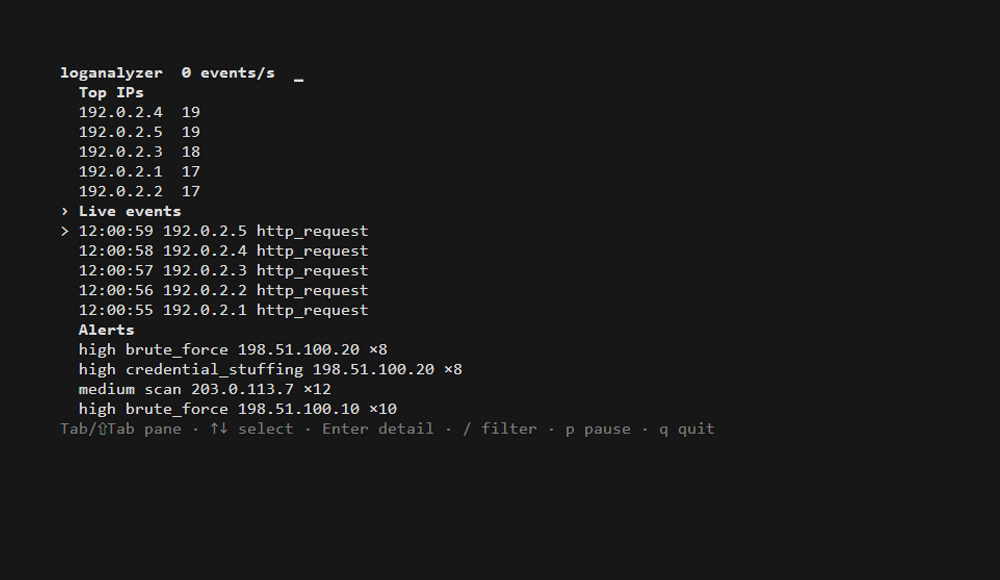
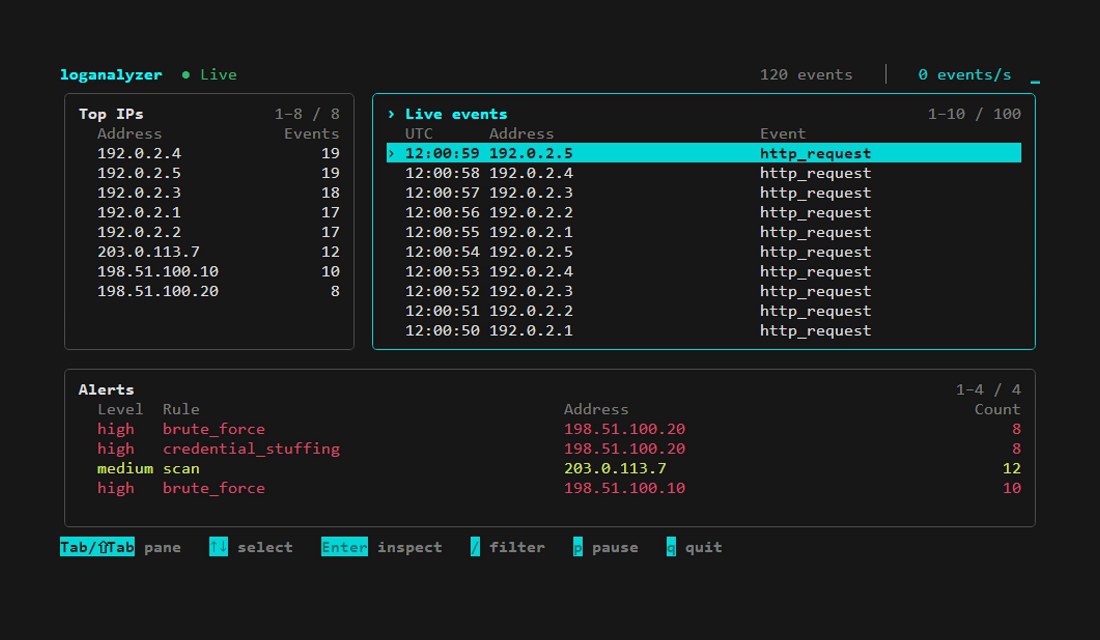
docs: embed the new dashboard demo and simplify both guides

diff --git a/docs/PYTHON_WALKTHROUGH.md b/docs/PYTHON_WALKTHROUGH.md
@@ -1,107 +1,95 @@
 # Python core walkthrough
 
-## From SSH message to database row
+Start with one failed SSH login. The parser reads the time, IP and username. The detector checks how many recent failures came from that IP. If this failure reaches the limit, SQLite saves the event and its alert together. The dashboard sees both on its next read.
 
-The three input commands call `ingest.parse_record` to decode bytes and choose the source parser. Valid events flow into `storage.write_batch`, where the detector compares the incoming observations with recent history. A threshold crossing adds an alert in the same transaction as its triggering event. Once the commit succeeds the dashboard can read both rows.
+## From a file to an event
 
-In `parsers/auth.py`, `parse_auth` splits the syslog header from the message. It recognizes three SSH messages. A failed password for an invalid user still counts as a failed password. A separate “Invalid user” message gets its own event type. Unrelated messages with a valid header return `None`. A broken header, impossible date, incomplete login message or invalid address raises `ValueError`.
+| Module | Job |
+| --- | --- |
+| `cli.py` | Handles `ingest`, `watch`, `replay` and `stats`. Picks the log format from the filename or `--format`. |
+| `ingest.py` | Reads bytes, decodes UTF-8 and calls the parser. A full-file import saves a batch every 500 input lines and saves the last batch at the end. |
+| `parsers/auth.py` | Reads accepted passwords, failed passwords and “Invalid user” messages from SSH logs. |
+| `parsers/nginx.py` | Reads combined access logs. It keeps the HTTP status and strips the query string from the path, so two searches on the same page count as one path. |
+| `models.py` | Defines the shared event fields, checks IPv4 and IPv6 addresses, and keeps the original line for the detail view. |
 
-In `models.py`, the Pydantic event carries the timestamp, source, IP address, username, type and original text. Address validation handles IPv4 and IPv6. The parser removes the line ending and preserves the rest for inspection.
+The import report counts malformed and ignored lines separately. A broken timestamp is malformed. A valid SSH “Connection closed” message is ignored because it describes a different kind of event.
 
-In `ingest.py`, `parse_auth_batch` keeps separate counts for malformed and ignored lines. Its reference date advances after each accepted event. The caller can pass the returned reference to the next batch. Keeping this state outside the single-line parser makes a date inference easy to reproduce in a test.
+### Why December needs special handling
 
-## The missing year
+A syslog line might say `Dec 31 23:59:59` without a year. If the file was written on January 2, using the file’s year would put that December event almost a year in the future.
 
-The parser tries dates in the reference year and its two neighboring years. Invalid calendar dates drop out before it chooses the nearest candidate.
+The parser tries the reference year, the year before and the year after. It keeps valid dates and picks the closest one.
 
 ```python
 timestamp = min(candidates, key=lambda date: abs(date - reference))
 ```
 
-A line dated December 31 read on January 2 normally belongs to the previous year. After a December event, a January 1 line normally belongs to the following year. Always using the current year can place two events seconds apart almost a year apart.
+The CLI starts with the file’s modification time in UTC. As it reads a batch, each accepted event becomes the next reference. An old archive with a recent modification time can still get the wrong year. nginx logs include a year and UTC offset.
 
-The caller supplies an aware reference in the source time zone. The input has neither a year nor a UTC offset, so old archives need a reference near the start of the file. A repeated local hour during a daylight-saving transition is ambiguous.
+## How one burst becomes one alert
 
-## Batches, WAL and checkpoints
-
-In `storage.py`, `open_database` enables write-ahead logging and creates the tables and the index on IP and event time. WAL lets a reader keep its snapshot during a write. SQLite still allows one writer at a time. Each event stores its normalized IP as text and its timestamp as Unix seconds.
-
-`write_batch` inserts the events with `executemany` and updates the file checkpoint inside the same `with db` transaction. If the checkpoint write fails, the inserted events roll back too. Committing the checkpoint separately could skip input or insert a batch twice after a crash. A commit per line would also spend more time waiting for disk writes.
-
-## Run one batch
-
-Start `uv run python` from the repository root and enter the following code. It uses an in-memory database for the example. The storage tests use a temporary file to exercise WAL and reopening.
-
-```python
-from contextlib import closing
-from datetime import UTC, datetime
-from pathlib import Path
-
-from loganalyzer.ingest import parse_auth_batch
-from loganalyzer.storage import Checkpoint, open_database, write_batch
-
-line = "Dec 31 23:59:59 demo sshd[42]: Invalid user guest from 192.0.2.1 port 42000\n"
-batch = parse_auth_batch([line], datetime(2025, 1, 2, tzinfo=UTC))
-print(batch.events[0], batch.malformed)
-with closing(open_database(Path(":memory:"))) as db:
-    write_batch(db, batch.events, Checkpoint("auth.log", "demo", len(line.encode())))
-    print(db.execute("SELECT ip, event_type FROM events").fetchall())
-```
-
-Run `uv run pytest tests/test_auth.py -v` to inspect the parser cases or `uv run pytest tests/test_storage.py -v` to check transaction behavior. Add `--pdb` to inspect local variables at a failing assertion.
-
-## Questions you might get asked
-
-**How does file ingestion work?** The Typer command in `cli.py` picks a parser from the filename or the explicit format. `ingest_file` opens a completed file in binary mode so each checkpoint is a byte offset. It decodes UTF-8 one line at a time, counts decoding and parsing errors, and commits after 500 input lines or at EOF. The final line of a completed file can omit its newline.
-
-**What is specific to nginx?** `parsers/nginx.py` reads combined-format HTTP request lines and their numeric timezone offset. The normalized event carries the path and status for detection. Removing the query string keeps variations of one resource together. A request that lacks a parseable HTTP request line counts as malformed. Use `uv run pytest tests/test_nginx.py tests/test_cli.py -v` to exercise nginx parsing and the generated-file workflow.
-
-**Why keep the raw line?** It preserves the evidence behind a normalized event. It also makes a parser error easier to diagnose.
-
-**Why store a byte offset?** A file reader can seek to a byte position after a restart. The number of decoded characters can differ from the number of bytes.
-
-**Where are alerts created?** `storage.write_batch` obtains the SQLite writer lock with `BEGIN IMMEDIATE`. It checks that another reader has not advanced the same file checkpoint. Then it runs detection, inserts events, saves the offset and commits. A checkpoint failure rolls back alert updates as well.
-
-## Detection windows and deduplication
-
-`rules.py` loads the YAML with a safe loader. Pydantic rejects unknown fields, nonpositive thresholds and unsupported severity values before ingestion opens the database.
-
-`detectors.py` keeps a deque for each rule and IP touched by the current batch. On first use, it reads qualifying events from the indexed time range in SQLite. nginx observations are parsed from their raw lines to recover paths and status codes. This costs some reads at batch boundaries but makes a fresh CLI process continue an attack without a separate state file.
+`rules.py` reads the YAML and checks it before ingestion starts. A typo in a field name or a threshold of zero raises an error. In `detectors.py`, each rule keeps a short history for each IP in a `deque`, a queue that can quickly remove its oldest item.
 
 ```python
 while window and window[0].ts < cutoff:
     window.popleft()
+previously_matched, _ = evaluate(name, rule, window)
 ```
 
-The window includes both endpoints. A late observation inside the current window is inserted in time order. An older observation is stored for inspection and contributes no new alert. The window clock is the latest qualifying event time for that IP and rule.
+For a 60-second rule, a failure at 12:00:00 still counts at 12:01:00. One second later it drops out. A late event can still count if its timestamp falls inside the window. Older events remain available in the dashboard.
 
-Each event is evaluated twice, once after expiration and once after insertion. If the surviving observations already meet the threshold, the detector updates the alert ending at the previous window time. Otherwise a new crossing opens a new alert. This also works after restarting the CLI. A fixed cooldown would merge independent bursts occurring close together. Alert count records the initial window size plus subsequent observations while the alert continues. Details describe the latest qualifying window.
+The detector checks the rule before and after adding the new event. With the default brute-force rule, the sixth failure opens an alert. A seventh failure a moment later updates it. Once enough old failures expire, a later burst can open a new alert. A fixed cooldown could hide that second burst.
 
-Run `uv run pytest tests/test_detectors.py -v` for the window boundary, both scan conditions, database rollback and episodes split across batches.
+At the start of a batch, the detector reads recent events for the IP from SQLite. This costs a few reads, but it lets a restarted process continue an existing alert. For HTTP events, it reads the saved raw line again to recover the path and status.
 
-## Following a file and playing an archive
+## What happens if a write fails?
 
-In `tail.py`, each poll reads up to 500 lines per file. Closing the file between polls allows renames on Windows. A reader compares the saved device and inode to the open file and checks the size before seeking.
+`storage.py` enables SQLite’s write-ahead log (WAL). The dashboard can keep reading the last saved data while Python writes the next batch. SQLite allows one writer at a time.
+
+The writer takes the lock with `BEGIN IMMEDIATE`, checks the previous file position, then saves the events, alert changes and new position in one transaction. If a step fails, SQLite rolls the whole batch back. Saving the position separately could make a restart skip lines or read them twice.
+
+Each second, the TUI reads its three panes in one short transaction. Its events-per-second figure measures new rows arriving in the database. Replaying a year-old file can still make the sparkline rise.
+
+## Watching and replaying
+
+**Watch** waits for complete lines. `tail.py` saves a byte offset and a file ID made from the device and inode. It closes the file between polls so Windows can rename it. Before reading again, it checks whether the saved position still fits the same file.
 
 ```python
 if previous and inode == previous.inode and previous.offset <= stat.st_size:
     stream.seek(previous.offset)
 ```
 
-A shorter file starts at byte zero. After a rename the reader looks for the old inode under the original filename plus a suffix, drains unread complete lines, then switches to the replacement. A partial current line stays behind the checkpoint until a newline arrives. A partial final line on a rotated sibling counts as malformed. A missing file can appear on a later poll.
+If the file shrank below that offset, reading starts at zero. If it was renamed to a sibling such as `access.log.1`, the watcher looks for its old ID and reads the remaining complete lines before switching files. A partial line in the current file waits for its newline.
 
-The replay command uses the same parser and database writer. Each event becomes visible at its playback deadline. Computing deadlines from the first timestamp avoids accumulating time spent writing earlier events. Equal or out-of-order timestamps can be played immediately. Replay leaves file checkpoints alone so a demonstration cannot move a live watcher forward.
+**Replay** reads the archive from the start. `replay.py` keeps the original timestamps and schedules playback from the first event. At `--speed 10`, a ten-second gap takes one second. Using a single start time keeps small database delays from adding up. Replay leaves the watcher’s saved position alone.
 
-Use `uv run pytest tests/test_streams.py -v` to exercise rotation during downtime, truncation and playback with a fake clock. Run `loganalyzer watch` and `loganalyzer stats` in separate terminals to inspect newly committed rows.
+## Try it and debug it
 
-## Reading committed results
+Run this from the project folder to see a sample pass through the full core.
 
-The Ink dashboard has no Python imports or direct connection to the ingestion process. Each second, `tui/src/db.ts` opens the database read-only and reads all three panes in one short SQLite transaction. The panes therefore show the same commit even if ingestion is writing the next batch. Closing the connection after the read releases the WAL snapshot and lets the next poll recover after a database replacement. Reopening adds a small cost per poll.
+```sh
+uv run python scripts/generate_logs.py samples
+uv run loganalyzer ingest samples/auth.log --db example.sqlite3
+uv run loganalyzer stats --db example.sqlite3
+```
 
-The rate uses the difference between successive committed event counts divided by elapsed wall time. Loading an archive can therefore show activity even though its event timestamps are years old. To debug a difference between the CLI and the TUI, run `loganalyzer stats --db PATH` and start the TUI against the same absolute path. Check the active filter and pause state.
+On a fresh database, the SSH file gives **60 events, one malformed line and three alerts**. Import it again and the saved offset keeps the event count at 60.
 
-## Reproducing the benchmark and demo
+| To investigate | Run from the project folder |
+| --- | --- |
+| Dates, addresses or bad lines | `uv run pytest tests/test_auth.py tests/test_nginx.py -v` |
+| Window boundaries and repeated alerts | `uv run pytest tests/test_detectors.py -v` |
+| A failed write or a CLI count | `uv run pytest tests/test_storage.py tests/test_cli.py -v` |
+| Rotation, partial lines or replay timing | `uv run pytest tests/test_streams.py -v` |
 
-`tests/benchmarks/test_ingest.py` uses the same file ingestion function as the CLI. It prepares a generated nginx file, runs five imports into separate databases and checks the returned event count. Divide 5,000 by the median reported time in seconds to get lines per second. Run `uv run pytest tests/benchmarks --benchmark-only` on the target machine before comparing changes.
+Add `--pdb` to inspect variables when a test fails. If the dashboard and CLI look different, check that both use the same database, then check the dashboard filter and pause state. In Docker, `docker compose exec demo cat /demo/replay.log` shows the replay output.
 
-In Docker, `scripts/demo.sh` generates both log formats under `/demo` and starts the two replay runs in sequence in the background. The foreground Node process owns the terminal. Inspect playback with `docker compose exec demo cat /demo/replay.log` and counts with `docker compose exec demo loganalyzer stats --db /demo/logs.sqlite3`.
+## Questions you might get asked
+
+**Why save the raw line?** It lets someone inspect the evidence behind an alert and check how the parser read it.
+
+**Why count bytes?** A UTF-8 character can take several bytes. A byte offset lets the reader seek to the right place after a restart.
+
+**Why batch writes?** A single commit can save hundreds of lines. Committing every line spends more time waiting for disk writes. Replay commits each event so it appears at the right time.
+
+**Why can one IP trigger two SSH alerts?** Brute force counts failed passwords. Credential stuffing counts different usernames in those failures. One burst can meet both rules.

diff --git a/README.md b/README.md
@@ -1,76 +1,46 @@
 # loganalyzer
 
-A personal project for educational purposes. Use it only with logs you own or have permission to analyze. All sample lines in this repository are generated.
+A small terminal dashboard for SSH and nginx logs. See which IPs are active, spot repeated login failures or web scans, and press **Enter** to read the log line behind an event.
 
-Follow SSH and nginx logs, detect repeated login failures and web scans, and inspect the original lines in a terminal dashboard. The Python core counts malformed lines and stores normalized events and alerts in SQLite.
+This is a personal project for learning. All demo logs are generated. Use it only with logs you own or have permission to analyze.
 
-![Dashboard showing SSH and HTTP activity and four alerts](docs/media/dashboard.png)
+![Dashboard demo showing four alerts, opening an alert and filtering by IP](docs/media/dashboard.gif)
 
-[Watch the recorded terminal demo](docs/media/dashboard.gif)
+[Still image](docs/media/dashboard.png) · [Python walkthrough](docs/PYTHON_WALKTHROUGH.md) · [Detection rules](rules.yaml)
 
-## Run the Docker demo
+## Try the demo
 
-From a fresh checkout with Docker Engine and Compose installed, run
+With Docker and Compose installed, run this from the project folder.
 
 ```sh
 docker compose up
 ```
 
-The demo generates two files, replays them at 5× speed and opens the Ink dashboard. After about 24 seconds the database contains 120 events and four alerts. The dashboard stays open for inspection.
+The demo replays about two minutes of logs in 24 seconds. You’ll see **120 events and four alerts**. To use the keyboard, open a second terminal and run `docker compose attach demo`. Press `q` to quit and run `docker compose down` to clean up. The demo database is temporary.
 
-For keyboard navigation, run `docker compose attach demo` in a second terminal. You can also start with `docker compose up -d --build` and then attach. Press `q` in the attached terminal to quit. Run `docker compose down` to remove the demo container. The database lives in a temporary in-memory filesystem inside the container. A new run starts fresh.
+| Key | What it does |
+| --- | --- |
+| Tab / Shift+Tab | Switch panes. Each pane remembers your place. |
+| ↑ / ↓ | Select a row or scroll through its details. |
+| Enter / Esc | Open a row with Enter. Close it with Enter or Esc. |
+| / | Filter by text, such as an IP. Enter applies the filter and resumes live updates. |
+| p / q | Pause or resume with p. Quit with q. |
 
-## Architecture
+On a small terminal, the dashboard shows one pane at a time. Severity labels also work with `NO_COLOR=1`.
 
-```mermaid
-flowchart LR
-    logs["SSH and nginx files"] --> reader["Ingest, watch or replay"]
-    reader --> parser["Parse and validate"]
-    parser --> writer["Evaluate rules and commit"]
-    rules["rules.yaml"] --> writer
-    writer --> db[("SQLite in WAL mode")]
-    db -->|Read-only poll every second| tui["Ink dashboard"]
-```
+## Run it locally
 
-The writer commits events, alert changes and the live file offset together. A restart can continue from the last completed transaction. Each dashboard poll reads one consistent snapshot. The two processes can start independently because their only interface is the database.
-
-## Ingest generated logs
-
-For manual setup, install Python 3.12 and uv, then run `uv sync --locked` in the repository root.
+**Load the sample logs.** Install Python 3.12 and uv, then run these commands from the project folder. The generator replaces `auth.log` and `access.log` in `samples/`.
 
 ```sh
+uv sync --locked
 uv run python scripts/generate_logs.py samples
 uv run loganalyzer ingest samples/auth.log
 uv run loganalyzer ingest samples/access.log
 uv run loganalyzer stats
 ```
 
-The generator replaces both files in the chosen directory. Each contains 60 events and one malformed line. Repeating an ingest resumes at the saved byte offset. Pass `--format auth` or `--format nginx` for a custom filename, and `--db PATH` to select a database. SSH times are interpreted as UTC, using the file modification time as the initial year reference. nginx timestamps include their own UTC offsets.
-
-## Watch or replay a file
-
-```sh
-uv run loganalyzer watch samples/auth.log samples/access.log
-uv run loganalyzer replay samples/auth.log --speed 10 --db demo.sqlite3
-```
-
-Watch checks each file every quarter second when idle. It waits for a newline before committing a record and prints session counts on Ctrl+C. Replay starts at the beginning on every invocation and appends events to the selected database. Use a fresh database for an independent demo. Playback preserves the stored timestamps and divides the gaps by the speed.
-
-## Configure detection
-
-Ingest reads `rules.yaml` from the working directory. Use `--rules PATH` to select another file. Each rule has a positive window length in seconds and a severity of `low`, `medium` or `high`.
-
-| Rule | Condition for one IP within the window |
-| --- | --- |
-| brute_force | At least `threshold` failed SSH passwords |
-| credential_stuffing | At least `threshold` distinct usernames in failed SSH passwords |
-| scan | At least `missing_threshold` HTTP 404s or `paths_threshold` distinct request paths |
-
-The generated sample produces four alert rows with the default rules. The sequence with eight usernames also qualifies as brute force. A rule change applies on subsequent ingestion. Existing alert rows retain their history.
-
-## Open the dashboard
-
-After ingesting the generated files, run these commands from the repository root with Node 20+ and npm installed.
+**Open the dashboard.** With Node 20+ and npm installed, run the following in a second terminal.
 
 ```sh
 cd tui
@@ -79,48 +49,64 @@ npm run build
 npm start
 ```
 
-The default database is `../loganalyzer.sqlite3` relative to the TUI working directory. Use `npm start -- PATH` for another database. Running the dashboard first shows “waiting for daemon…” until ingestion creates the schema.
+The dashboard reads `../loganalyzer.sqlite3`. Use `npm start -- PATH` to open another database.
 
-The header shows the polling state, committed event total and arrival rate over the last 20 samples. On wide terminals, Top IPs and Live events sit side by side above the Alerts table. Each pane shows its visible row range and holds up to 100 results. Tab changes focus and remembers the selected row in each pane. Narrow or short terminals show the focused pane. Enter opens a scrollable detail with the original log line or alert evidence.
-
-| Key | Action |
-| --- | --- |
-| Tab / Shift+Tab | Change pane |
-| ↑ / ↓ | Select a row or scroll a detail |
-| Enter | Inspect a row, including the raw log in Live events |
-| Esc / Enter | Close detail |
-| / | Edit a literal, case-insensitive filter. Enter applies it and resumes polling. Esc cancels. |
-| p | Pause or resume polling |
-| q | Quit |
-
-Severity labels remain visible with `NO_COLOR=1`. From `tui/`, run `npm test`, `npm run lint` and `npm run typecheck` to check the terminal UI.
-
-## Run the core tests
-
-From the repository root, with Python 3.12 and uv installed, run
+**Follow or replay a log.** Run either command from the project folder.
 
 ```sh
-uv sync --locked
+uv run loganalyzer watch samples/auth.log samples/access.log
+uv run loganalyzer replay samples/auth.log --speed 10 --db demo.sqlite3
+```
+
+`ingest` and `watch` remember where they stopped. `replay` starts at the beginning and adds events each time. Use a fresh database for a fresh demo. For unusual filenames, pass `--format auth` or `--format nginx`.
+
+## How detection works
+
+```mermaid
+flowchart LR
+    logs["SSH and nginx logs"] --> parser["Python parser"]
+    parser --> writer["Check rules and save events"]
+    rules["rules.yaml"] --> writer
+    writer --> db[("SQLite in WAL mode")]
+    db -->|Read every second| tui["Ink dashboard"]
+```
+
+The Python core saves events, alerts and the file position together. After a restart, it picks up at the last saved position. The dashboard opens the database read-only.
+
+Each rule checks **one IP** over a time window. Edit `window_seconds`, the thresholds and `severity` in `rules.yaml`, or pass `--rules PATH` to use your own file.
+
+| Rule | Default trigger within 60 seconds |
+| --- | --- |
+| Brute force | 6 failed SSH passwords |
+| Credential stuffing | Failed passwords for 5 different usernames |
+| Web scan | 8 HTTP 404 responses or 10 different paths |
+
+One burst updates the same alert while the rule stays active. The sample produces four alerts because one IP triggers both SSH rules.
+
+## Tests and speed
+
+```sh
 uv run pytest
 uv run ruff check .
 uv run mypy --strict
-```
-
-A synthetic batch crosses New Year in the parser tests. A storage test reopens a database and checks what survives a failed write. The walkthrough includes a runnable example and explains both cases. [Python walkthrough](docs/PYTHON_WALKTHROUGH.md)
-
-## Ingestion benchmark
-
-```sh
 uv run pytest tests/benchmarks --benchmark-only
 ```
 
-On Windows with Python 3.12.10 and an Intel Core i5-11400H, the median was **26,691 lines/s** across five runs of 5,000 generated nginx lines each. Median time was 187.33 ms. Mean time was 197.15 ms, or 25,361 lines/s.
+For the dashboard, run `npm test`, `npm run lint` and `npm run typecheck` from `tui/`.
 
-The timer includes opening a fresh file-backed database per run, parsing, IPv4 validation, scan detection, alert updates and WAL commits in batches of 500. File generation and YAML loading happen before timing. The five client IPs request 47 paths and receive 404 responses. Storage and traffic mix affect the result.
+**26,691 lines per second** was the median on Windows with Python 3.12.10 and an Intel Core i5-11400H. Each of five runs loaded 5,000 generated nginx lines into a fresh SQLite database. The median run took 187.33 ms, including parsing, detection and writes in batches of 500.
 
-## Record the dashboard
+## Limits and ideas for later
 
-From the repository root with the TUI built and VHS, ttyd and FFmpeg on PATH, run
+- SSH logs leave out the year. The CLI assumes UTC and uses the file’s modification time as a starting point. A date and timezone option would help with old archives.
+- Rotation can lose unread lines if the old file is removed or compressed too soon. A file that shrinks and grows again between checks can also hide a change.
+- People behind one shared IP can trigger an alert together. Attempts spread across many IPs can go undetected.
+- The database keeps its history. A retention setting and a time filter would help with larger logs.
+
+<details>
+<summary>Record the dashboard demo</summary>
+
+Build the TUI first. With VHS, ttyd and FFmpeg on your path, run these commands from the project folder using a fresh recording database.
 
 ```sh
 uv run python scripts/generate_logs.py samples
@@ -129,11 +115,4 @@ uv run loganalyzer ingest samples/access.log --db samples/dashboard.sqlite3
 vhs docs/media/demo.tape
 ```
 
-Use a fresh recording database to reproduce the sample counts. The tape opens the dashboard, inspects an alert and filters for the generated scan address.
-
-## Limits and ideas for later
-
-- The SSH CLI assumes UTC and anchors missing years to file modification time. Copying an old archive can change that reference. A source-timezone and reference-date option would make historical imports easier.
-- Watch can drain a renamed file while its old inode remains accessible under the original name plus a suffix. Compression, removal or moving the old file elsewhere can lose unread bytes. Copy-truncate rotation that regrows past the saved offset between polls can also escape detection.
-- Rules detect per-IP patterns. Shared addresses can combine unrelated users, and a distributed attack can stay below each individual threshold.
-- Event history grows until the database is archived. The dashboard ranks IPs over the matching history each second. Retention and a time-range filter would help with larger datasets.
+</details>
